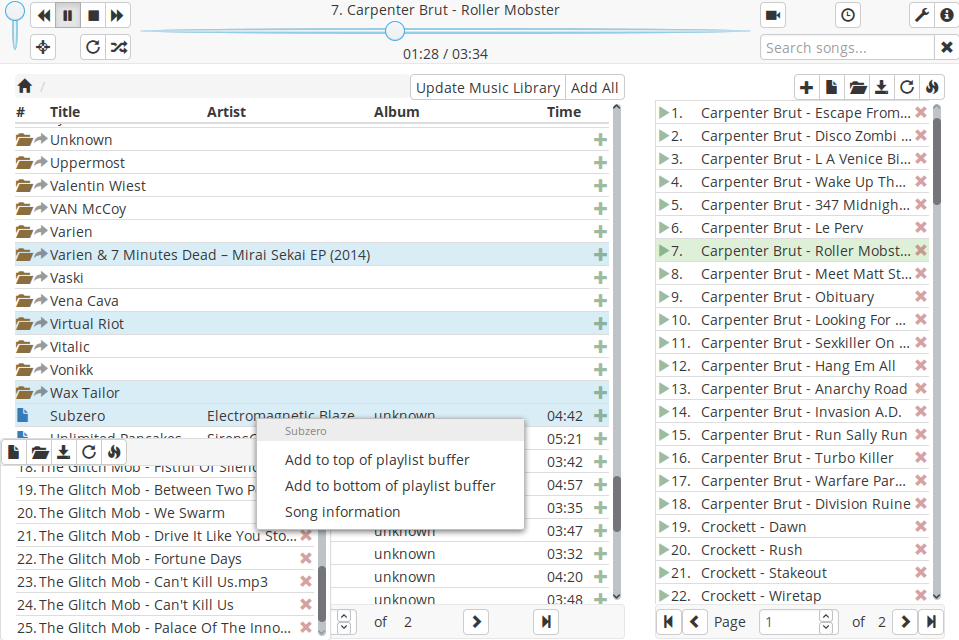
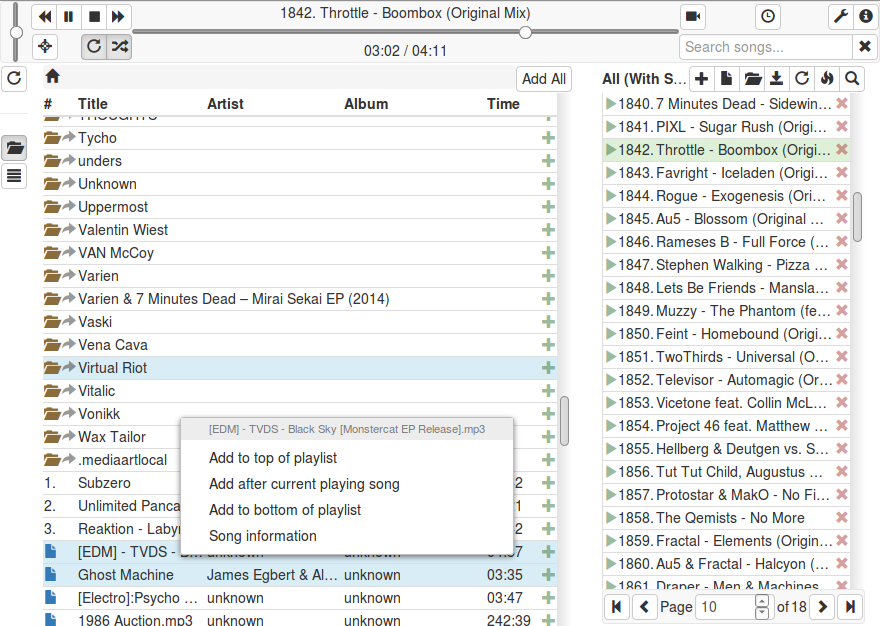
merge library branch
add searching for songs in libray
add proper global search when in library
update readme and add another screenshot

diff --git a/public/js/mpcparty.js b/public/js/mpcparty.js
@@ -282,6 +282,13 @@ function createSearch(input, callSearch, callReset, inputClear, time) {
         $(input).focus();
         lastVal = '';
         callReset();
+
+        // not the best way of doing things...
+        if (library.bringBack) {
+            browser.hide();
+            library.show();
+            library.bringBack = false;
+        }
     });
 
     // detect enter key
@@ -315,7 +322,8 @@ function lazySearch(input, table, data, inputClear, time) {
                     $(this).hide();
                 }
             });
-        }, function () {
+        },
+        function () {
             $(table + ' .gen').show();
         },
         inputClear,
@@ -1619,6 +1627,12 @@ var browser = {
     search: function (name, poppedState) {
         console.log('browser.search: ' + name);
 
+        if (browser.hidden) {
+            browser.show();
+            library.hide();
+            library.bringBack = true;
+        }
+
         komponist.search('any', name, function (err, files) {
             if (err) return console.log(err);
 
@@ -2176,6 +2190,8 @@ var libraryAlbum = {
 // the library (alternative to file browser)
 var library = {
     hidden: true,
+    // used when searching globally and other things
+    bringBack: false,
     // used for artist and album selection
     selected: [],
     // used for saving selected temporarily
@@ -2423,11 +2439,53 @@ var library = {
             });
     },
 
+    // search library. assume library.artist and library.album is already set
+    search: function (title) {
+        function compare(files) {
+            //console.log(files);
+            $(files).each(function(item, file) {
+                $('#library-songs-list .gen').each(function (item, val) {
+                    if ($(val).data().fileid == file.file) {
+                        $(this).show();
+                    } else {
+                        $(this).hide();
+                    }
+                });
+            });
+        }
+
+        if (library.artist && library.album) {
+            //console.log('search artist and album');
+            komponist.search('artist', library.artist, 'album', library.album,
+                    'title', title, function (err, files) {
+                compare(files);
+            });
+        } else if (library.artist) {
+            //console.log('search artist');
+            komponist.search('artist', library.artist,
+                    'title', title, function (err, files) {
+                compare(files);
+            });
+        } else {
+            console.log('no artist or album selected?');
+        }
+    },
+
     initEvents: function () {
         lazySearch('#search-artists', '#library-artists-list', 'artist',
             '#search-artists-clear');
         lazySearch('#search-albums',  '#library-albums-list',  'album',
             '#search-albums-clear');
+        // we only really care about the title (hopefully, only exception is
+        // when in the 'all' album)
+        createSearch(
+            '#search-songs',
+            library.search,
+            function () {
+                $('#library-songs-list .gen').show();
+            },
+            '#search-songs-clear',
+            1000);
 
         $('#open-library').click(function () {
             settings.saveBrowser('library');

diff --git a/readme.md b/readme.md
@@ -7,6 +7,12 @@ The interface is similar to Client175, while using Nodejs as a backend for bette
 
 ![Screenshot](https://github.com/jplsek/MPCParty/raw/master/screenshot.png)
 
+Show the Default theme, and file browser view
+
+![Screenshot2](https://github.com/jplsek/MPCParty/raw/master/screenshot2.png)
+
+Showing the Materialish theme, library view, and playlist buffer
+
 ## Features
 * No need to have a separate web server running!
 * Play, pause, repeat, random, skip, seek, previous buttons and volume controls
@@ -25,18 +31,16 @@ The interface is similar to Client175, while using Nodejs as a backend for bette
     * Double click folders to browse them
     * Add songs to the playlist by pressing "+" or double clicking
     * Add folders to the playlist by pressing "+"
-    * Add songs and folders to the playlist or playlist buffer by dragging
-    * Sort by title, artist, album or time
     * Location bar
     * Add all songs based on current page to the playlist
-    * Library searching
-    * Playlist position indication
+    * Playlist position indication for songs
     * Folder url linking
-    * Search url linking
-    * Right click to add a song (or folder) to the top, bottom, or after the currently playing song of the playlist (or playlist buffer)
-    * Multiselection (ctrl, shift: add, weird drag and drop; right click: add to top, bottom, current)
-* Library browser (WIP)
+    * Drag and drop, multiselection, context menus, column sorting.
+* Library browser
     * Select songs from their respective artist and album, without worring about files and folders
+    * Add all songs from an artist or album by pressing "+" or double clicking
+    * Playlist position indication for songs
+    * Drag and drop, multiselection, context menus, column sorting, search filtering.
 * Playlist buffer
     * Create and edit playlists without interrupting the current playlist
     * Multiselection (ctrl, shift: remove, weird drag and drop; right click: add to top, bottom)
@@ -47,6 +51,10 @@ The interface is similar to Client175, while using Nodejs as a backend for bette
 * Update music database
 * Basic mobile support
 * Basic theming support
+* Library searching
+* Library search url linking
+
+Note: searching for songs, for the most part, requires proper tagging of your files! This may be changed in the future to also account for the file name itself.
 
 ### Multi-user features
 * Vote to skip songs (This can be easily bypassed. Might create a strict mode in the future)
@@ -55,17 +63,18 @@ The interface is similar to Client175, while using Nodejs as a backend for bette
 * User lists (optional)
 
 ## Configuration
-* Edit config.cfg
-    * Web port (default is 8081)
-    * MPD url (default is localhost)
-    * MPD port (default is 6600)
-    * Enable vote skipping (default is true)
-    * Vote skipping percentage (default is 75%, aka 75% of the users need to vote before taking effect)
-    * Show user lists (default is false)
-    * Enable the Download Player (default is true)
-    * Set Download Player download location (default is ./downloads, but I recommend setting it to your Music folder)
-    * Set the default volume of the Download Player (default is 50%)
-    * Set whether or not to keep the downloaded videos after conversion (default is true)
+Edit config.cfg
+
+* Web port (default is 8081)
+* MPD url (default is localhost)
+* MPD port (default is 6600)
+* Enable vote skipping (default is true)
+* Vote skipping percentage (default is 75%, aka 75% of the users need to vote before taking effect)
+* Show user lists (default is false)
+* Enable the Download Player (default is true)
+* Set Download Player download location (default is ./downloads, but I recommend setting it to your Music folder)
+* Set the default volume of the Download Player (default is 50%)
+* Set whether or not to keep the downloaded videos after conversion (default is true)
 
 ## Installation
 ### 1) Dependencies
@@ -111,4 +120,4 @@ The interface is similar to Client175, while using Nodejs as a backend for bette
 * I recommend using [jshint](http://jshint.com/install/) before sending something.
 
 ## License
-* GNU Lesser General Public License v3 (LGPL-3.0)
+GNU Lesser General Public License v3 (LGPL-3.0)

diff --git a/todo.md b/todo.md
@@ -23,11 +23,8 @@ TODO
     * Custom column picker
     * Add a 'file' search mode in case the file doesn't have tag
 * Library:
-    * Search bar (songs)
-    * Context menus (artists, albums)
     * URL's
     * Popstates
-    * Global search brings browser back, closing global search brings library back
 * Playlist:
     * Drag and drop through pages
     * Remove songs visually to the single user. (Do not update the playlist via mpd for the user editing it.) It will allow faster deletion for large playlists.
